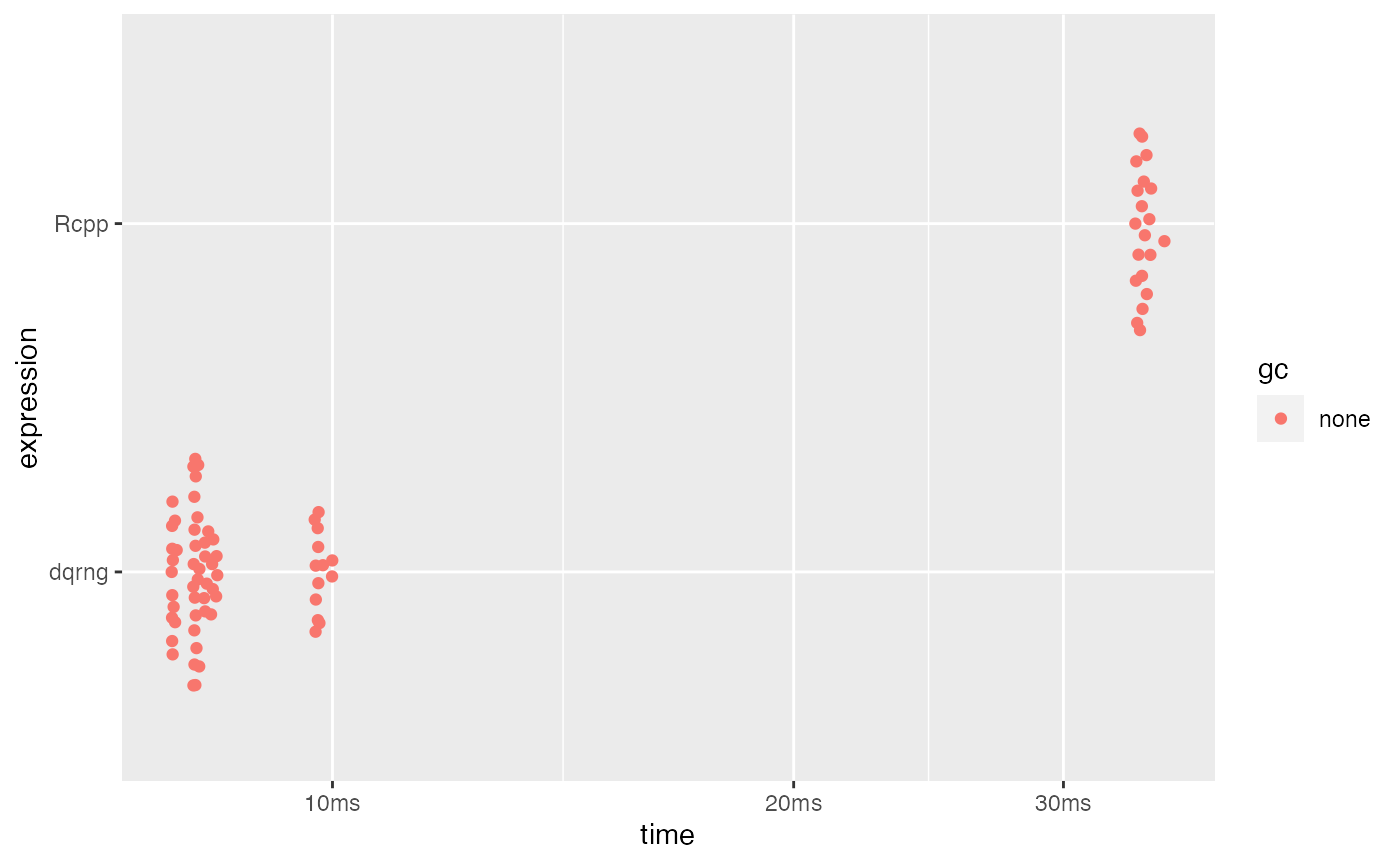
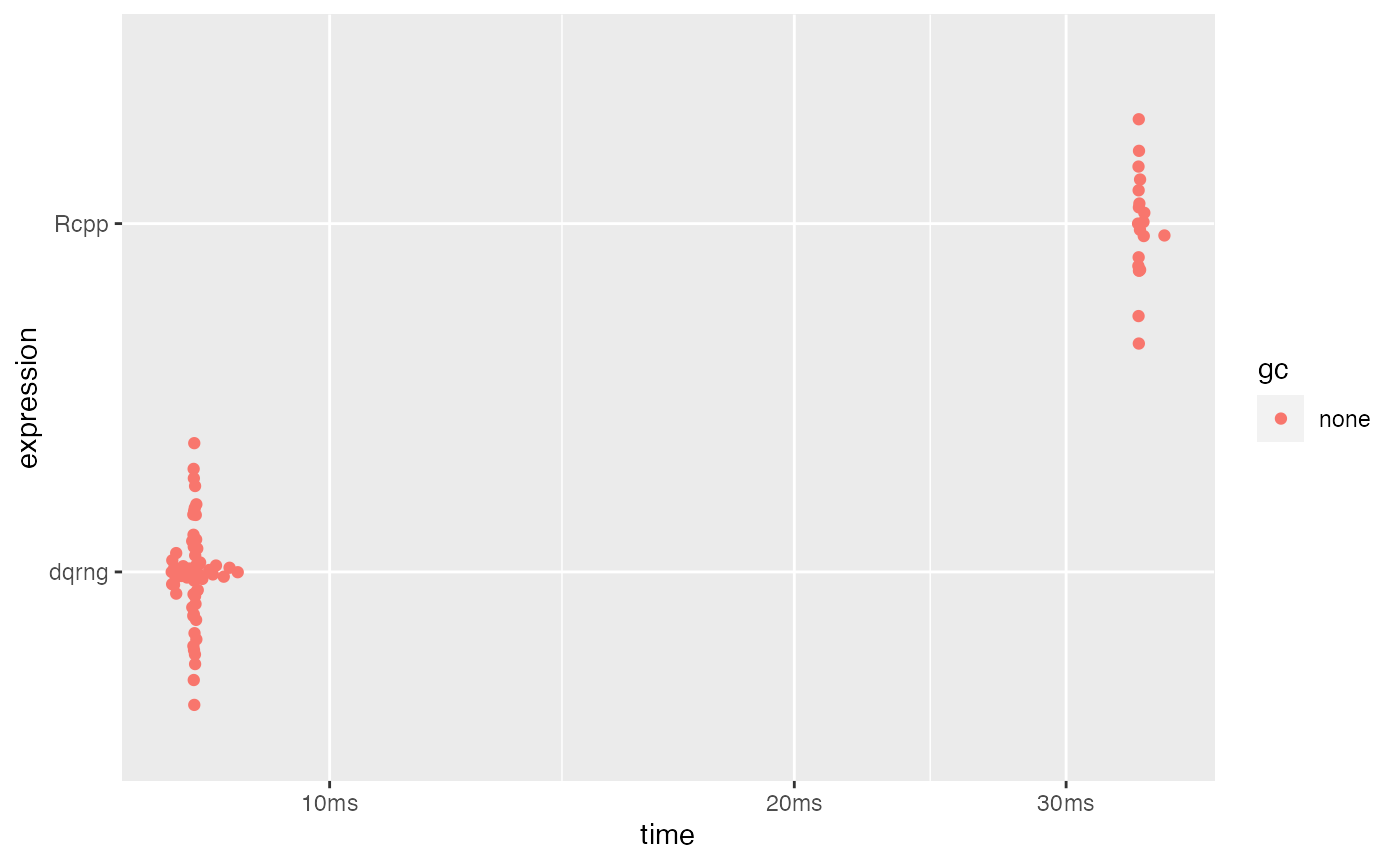
Built site for RcppRNG: 0.2.0@84d1665

diff --git a/index.html b/index.html
@@ -75,7 +75,7 @@
 <a href="#rcpprng" class="anchor"></a>RcppRNG</h1></div>
 <!-- badges: start -->
 
-<p>The goal of RcppRNG is to explore a templated implementation of Rcpp’s internal generators for sampling. The motivation is to be able to write sampling routines that are based on native sampling routines (<code>rexp</code>, <code>runif</code>, …) in a way that one can easily switch to an alternative RNG (e.g. <code>dqrng</code>).</p>
+<p>The goal of RcppRNG is to explore a templated implementation of Rcpp’s internal generators for sampling. The motivation is to be able to write sampling routines that are based on native sampling routines (<code>rexp</code>, <code>runif</code>, …) in a way that one can easily switch to an alternative RNG (e.g. <code>dqrng</code>). To achieve this, we borrow some design patterns from <a href="https://www.boost.org/doc/libs/1_74_0/doc/html/boost_random.html"><strong>boost/random</strong></a> and enrich these with additional template arguments for distributions, which are central to respective simulation strategies.</p>
 <div id="installation" class="section level2">
 <h2 class="hasAnchor">
 <a href="#installation" class="anchor"></a>Installation</h2>
@@ -102,7 +102,7 @@
 <span id="cb2-14"><a href="#cb2-14"></a></span>
 <span id="cb2-15"><a href="#cb2-15"></a><span class="op">/</span><span class="er">/</span><span class="st"> </span>[[Rcpp<span class="op">::</span><span class="kw">export</span>(<span class="dt">rng=</span>false)]]</span>
 <span id="cb2-16"><a href="#cb2-16"></a>NumericVector <span class="kw">Rcpp_rexp_RNGScope</span>(R_xlen_t n, double <span class="dt">rate =</span> <span class="fl">1.</span>) {</span>
-<span id="cb2-17"><a href="#cb2-17"></a>  NumericVector <span class="kw">out</span>(<span class="kw">no_init</span>(n));</span>
+<span id="cb2-17"><a href="#cb2-17"></a>  NumericVector out{<span class="kw">no_init</span>(n)};</span>
 <span id="cb2-18"><a href="#cb2-18"></a>  Rcpp<span class="op">::</span>RNGScope engine{};</span>
 <span id="cb2-19"><a href="#cb2-19"></a>  exponential_distribution exp{rate};</span>
 <span id="cb2-20"><a href="#cb2-20"></a>  std<span class="op">::</span><span class="kw">generate</span>(<span class="kw">out.begin</span>(), <span class="kw">out.end</span>(),</span>
@@ -113,7 +113,7 @@
 <span id="cb2-25"><a href="#cb2-25"></a></span>
 <span id="cb2-26"><a href="#cb2-26"></a><span class="op">/</span><span class="er">/</span><span class="st"> </span>[[Rcpp<span class="op">::</span><span class="kw">export</span>(<span class="dt">rng=</span>false)]]</span>
 <span id="cb2-27"><a href="#cb2-27"></a>NumericVector <span class="kw">Rcpp_rexp_RcppRNG</span>(R_xlen_t n, double <span class="dt">rate =</span> <span class="fl">1.</span>) {</span>
-<span id="cb2-28"><a href="#cb2-28"></a>  NumericVector <span class="kw">out</span>(<span class="kw">no_init</span>(n));</span>
+<span id="cb2-28"><a href="#cb2-28"></a>  NumericVector out{<span class="kw">no_init</span>(n)};</span>
 <span id="cb2-29"><a href="#cb2-29"></a>  RcppRNG<span class="op">::</span>rng<span class="op">::</span>RcppRNG engine{};</span>
 <span id="cb2-30"><a href="#cb2-30"></a>  exponential_distribution exp{rate};</span>
 <span id="cb2-31"><a href="#cb2-31"></a>  std<span class="op">::</span><span class="kw">generate</span>(<span class="kw">out.begin</span>(), <span class="kw">out.end</span>(),</span>
@@ -122,50 +122,55 @@
 <span id="cb2-34"><a href="#cb2-34"></a>  return out;</span>
 <span id="cb2-35"><a href="#cb2-35"></a>}</span>
 <span id="cb2-36"><a href="#cb2-36"></a></span>
-<span id="cb2-37"><a href="#cb2-37"></a>use_seed &lt;-<span class="st"> </span>1623L</span>
-<span id="cb2-38"><a href="#cb2-38"></a></span>
-<span id="cb2-39"><a href="#cb2-39"></a><span class="kw">set.seed</span>(use_seed)</span>
-<span id="cb2-40"><a href="#cb2-40"></a><span class="kw">rexp</span>(<span class="dv">10</span>, <span class="fl">0.5</span>)</span>
-<span id="cb2-41"><a href="#cb2-41"></a><span class="co">#&gt;  [1] 5.4676605 4.5936452 0.4407928 0.5377660 5.1456763 1.4054108 1.6753103</span></span>
-<span id="cb2-42"><a href="#cb2-42"></a><span class="co">#&gt;  [8] 3.2669849 0.1426958 4.6437262</span></span>
-<span id="cb2-43"><a href="#cb2-43"></a></span>
-<span id="cb2-44"><a href="#cb2-44"></a><span class="kw">set.seed</span>(use_seed)</span>
-<span id="cb2-45"><a href="#cb2-45"></a><span class="kw">Rcpp_rexp_RNGScope</span>(<span class="dv">10</span>, <span class="fl">0.5</span>)</span>
-<span id="cb2-46"><a href="#cb2-46"></a><span class="co">#&gt;  [1] 5.4676605 4.5936452 0.4407928 0.5377660 5.1456763 1.4054108 1.6753103</span></span>
-<span id="cb2-47"><a href="#cb2-47"></a><span class="co">#&gt;  [8] 3.2669849 0.1426958 4.6437262</span></span>
-<span id="cb2-48"><a href="#cb2-48"></a></span>
-<span id="cb2-49"><a href="#cb2-49"></a><span class="kw">set.seed</span>(use_seed)</span>
-<span id="cb2-50"><a href="#cb2-50"></a><span class="kw">Rcpp_rexp_RcppRNG</span>(<span class="dv">10</span>, <span class="fl">0.5</span>)</span>
-<span id="cb2-51"><a href="#cb2-51"></a><span class="co">#&gt;  [1] 5.4676605 4.5936452 0.4407928 0.5377660 5.1456763 1.4054108 1.6753103</span></span>
-<span id="cb2-52"><a href="#cb2-52"></a><span class="co">#&gt;  [8] 3.2669849 0.1426958 4.6437262</span></span>
-<span id="cb2-53"><a href="#cb2-53"></a></span>
-<span id="cb2-54"><a href="#cb2-54"></a>bench<span class="op">::</span><span class="kw">mark</span>(</span>
-<span id="cb2-55"><a href="#cb2-55"></a>  <span class="kw">rexp</span>(<span class="fl">1e5</span>, <span class="fl">0.5</span>),</span>
-<span id="cb2-56"><a href="#cb2-56"></a>  <span class="kw">Rcpp_rexp_RNGScope</span>(<span class="fl">1e5</span>, <span class="fl">0.5</span>),</span>
-<span id="cb2-57"><a href="#cb2-57"></a>  <span class="kw">Rcpp_rexp_RcppRNG</span>(<span class="fl">1e5</span>, <span class="fl">0.5</span>),</span>
-<span id="cb2-58"><a href="#cb2-58"></a>  <span class="dt">check=</span><span class="ot">FALSE</span></span>
-<span id="cb2-59"><a href="#cb2-59"></a>)</span>
-<span id="cb2-60"><a href="#cb2-60"></a><span class="co">#&gt; # A tibble: 3 x 6</span></span>
-<span id="cb2-61"><a href="#cb2-61"></a><span class="co">#&gt;   expression                          min   median `itr/sec` mem_alloc `gc/sec`</span></span>
-<span id="cb2-62"><a href="#cb2-62"></a><span class="co">#&gt;   &lt;bch:expr&gt;                     &lt;bch:tm&gt; &lt;bch:tm&gt;     &lt;dbl&gt; &lt;bch:byt&gt;    &lt;dbl&gt;</span></span>
-<span id="cb2-63"><a href="#cb2-63"></a><span class="co">#&gt; 1 rexp(1e+05, 0.5)                 5.26ms   5.96ms      162.  783.79KB     2.06</span></span>
-<span id="cb2-64"><a href="#cb2-64"></a><span class="co">#&gt; 2 Rcpp_rexp_RNGScope(1e+05, 0.5)   3.84ms   4.44ms      219.    4.52MB     2.07</span></span>
-<span id="cb2-65"><a href="#cb2-65"></a><span class="co">#&gt; 3 Rcpp_rexp_RcppRNG(1e+05, 0.5)    3.83ms   4.33ms      218.  787.92KB     4.27</span></span></code></pre></div>
+<span id="cb2-37"><a href="#cb2-37"></a>n &lt;-<span class="st"> </span><span class="fl">1e1</span>L</span>
+<span id="cb2-38"><a href="#cb2-38"></a>lambda &lt;-<span class="st"> </span><span class="fl">0.5</span></span>
+<span id="cb2-39"><a href="#cb2-39"></a>use_seed &lt;-<span class="st"> </span>1623L</span>
+<span id="cb2-40"><a href="#cb2-40"></a></span>
+<span id="cb2-41"><a href="#cb2-41"></a><span class="kw">set.seed</span>(use_seed)</span>
+<span id="cb2-42"><a href="#cb2-42"></a><span class="kw">rexp</span>(n, <span class="dt">rate=</span>lambda)</span>
+<span id="cb2-43"><a href="#cb2-43"></a><span class="co">#&gt;  [1] 5.4676605 4.5936452 0.4407928 0.5377660 5.1456763 1.4054108 1.6753103</span></span>
+<span id="cb2-44"><a href="#cb2-44"></a><span class="co">#&gt;  [8] 3.2669849 0.1426958 4.6437262</span></span>
+<span id="cb2-45"><a href="#cb2-45"></a></span>
+<span id="cb2-46"><a href="#cb2-46"></a><span class="kw">set.seed</span>(use_seed)</span>
+<span id="cb2-47"><a href="#cb2-47"></a><span class="kw">Rcpp_rexp_RNGScope</span>(n, <span class="dt">rate=</span>lambda)</span>
+<span id="cb2-48"><a href="#cb2-48"></a><span class="co">#&gt;  [1] 5.4676605 4.5936452 0.4407928 0.5377660 5.1456763 1.4054108 1.6753103</span></span>
+<span id="cb2-49"><a href="#cb2-49"></a><span class="co">#&gt;  [8] 3.2669849 0.1426958 4.6437262</span></span>
+<span id="cb2-50"><a href="#cb2-50"></a></span>
+<span id="cb2-51"><a href="#cb2-51"></a><span class="kw">set.seed</span>(use_seed)</span>
+<span id="cb2-52"><a href="#cb2-52"></a><span class="kw">Rcpp_rexp_RcppRNG</span>(n, <span class="dt">rate=</span>lambda)</span>
+<span id="cb2-53"><a href="#cb2-53"></a><span class="co">#&gt;  [1] 5.4676605 4.5936452 0.4407928 0.5377660 5.1456763 1.4054108 1.6753103</span></span>
+<span id="cb2-54"><a href="#cb2-54"></a><span class="co">#&gt;  [8] 3.2669849 0.1426958 4.6437262</span></span>
+<span id="cb2-55"><a href="#cb2-55"></a></span>
+<span id="cb2-56"><a href="#cb2-56"></a></span>
+<span id="cb2-57"><a href="#cb2-57"></a>n &lt;-<span class="st"> </span><span class="fl">1e5</span>L</span>
+<span id="cb2-58"><a href="#cb2-58"></a>bench<span class="op">::</span><span class="kw">mark</span>(</span>
+<span id="cb2-59"><a href="#cb2-59"></a>  <span class="kw">rexp</span>(n, <span class="dt">rate=</span>lambda),</span>
+<span id="cb2-60"><a href="#cb2-60"></a>  <span class="kw">Rcpp_rexp_RNGScope</span>(n, <span class="dt">rate=</span>lambda),</span>
+<span id="cb2-61"><a href="#cb2-61"></a>  <span class="kw">Rcpp_rexp_RcppRNG</span>(n, <span class="dt">rate=</span>lambda),</span>
+<span id="cb2-62"><a href="#cb2-62"></a>  <span class="dt">check=</span><span class="ot">FALSE</span></span>
+<span id="cb2-63"><a href="#cb2-63"></a>)</span>
+<span id="cb2-64"><a href="#cb2-64"></a><span class="co">#&gt; # A tibble: 3 x 6</span></span>
+<span id="cb2-65"><a href="#cb2-65"></a><span class="co">#&gt;   expression                              min median `itr/sec` mem_alloc</span></span>
+<span id="cb2-66"><a href="#cb2-66"></a><span class="co">#&gt;   &lt;bch:expr&gt;                           &lt;bch:&gt; &lt;bch:&gt;     &lt;dbl&gt; &lt;bch:byt&gt;</span></span>
+<span id="cb2-67"><a href="#cb2-67"></a><span class="co">#&gt; 1 rexp(n, rate = lambda)               5.33ms    6ms      156.  783.79KB</span></span>
+<span id="cb2-68"><a href="#cb2-68"></a><span class="co">#&gt; 2 Rcpp_rexp_RNGScope(n, rate = lambda) 3.83ms 4.33ms      223.    4.52MB</span></span>
+<span id="cb2-69"><a href="#cb2-69"></a><span class="co">#&gt; 3 Rcpp_rexp_RcppRNG(n, rate = lambda)  3.83ms 4.38ms      222.  787.92KB</span></span>
+<span id="cb2-70"><a href="#cb2-70"></a><span class="co">#&gt; # … with 1 more variable: `gc/sec` &lt;dbl&gt;</span></span></code></pre></div>
 </div>
 <div id="why-is-that-useful" class="section level2">
 <h2 class="hasAnchor">
 <a href="#why-is-that-useful" class="anchor"></a>Why is that useful?</h2>
-<p>For the exponential distribution, the problem is not that easy to motivate, since whenever one wants repeated single exponential samples inside the C++ function, one could resort to</p>
-<div class="sourceCode" id="cb3"><pre class="sourceCode R"><code class="sourceCode r"><span id="cb3-1"><a href="#cb3-1"></a>scale <span class="op">*</span><span class="st"> </span>R<span class="op">::</span><span class="kw">exp_rand</span>();</span></code></pre></div>
+<p>For the exponential distribution, obvious to see why this approach constitutes an improvement, since whenever one wants repeated single exponential samples inside the C++ function, one could resort to</p>
+<div class="sourceCode" id="cb3"><pre class="sourceCode R"><code class="sourceCode r"><span id="cb3-1"><a href="#cb3-1"></a>scale <span class="op">*</span><span class="st"> </span><span class="er">::</span><span class="kw">exp_rand</span>(); <span class="op">/</span><span class="er">/</span><span class="st"> </span><span class="cf">in</span> R_ext<span class="op">/</span>Random.h</span></code></pre></div>
 <p>However, it is much more difficult, if you need repeated single samples from a discrete distribution (e.g. to sample the transitions in a Markov process). At his point you could do somethings like</p>
 <div class="sourceCode" id="cb4"><pre class="sourceCode R"><code class="sourceCode r"><span id="cb4-1"><a href="#cb4-1"></a><span class="kw">sample</span>(n, <span class="dv">1</span>, false, probs, true)[<span class="dv">0</span>]; <span class="op">/</span><span class="er">/</span><span class="st"> </span>probs is NumericVector of size n</span></code></pre></div>
-<p>This, however, would construct a <code>NumericVector</code> object in each draw. This has a significant overhead. For the exponential distribution this will be demonstrated in the following</p>
+<p>However, this would construct a <code>NumericVector</code> object in each draw. This has a significant overhead. For the exponential distribution this will be demonstrated in the following</p>
 <div class="sourceCode" id="cb5"><pre class="sourceCode R"><code class="sourceCode r"><span id="cb5-1"><a href="#cb5-1"></a><span class="co">#include &lt;Rcpp.h&gt;</span></span>
 <span id="cb5-2"><a href="#cb5-2"></a>using namespace Rcpp;</span>
 <span id="cb5-3"><a href="#cb5-3"></a></span>
 <span id="cb5-4"><a href="#cb5-4"></a><span class="op">/</span><span class="er">/</span><span class="st"> </span>[[Rcpp<span class="op">::</span>export]]</span>
 <span id="cb5-5"><a href="#cb5-5"></a>NumericVector <span class="kw">Rcpp_rexp_slow</span>(R_xlen_t n, double <span class="dt">rate =</span> <span class="fl">1.</span>) {</span>
-<span id="cb5-6"><a href="#cb5-6"></a>  NumericVector <span class="kw">out</span>(<span class="kw">no_init</span>(n));</span>
+<span id="cb5-6"><a href="#cb5-6"></a>  NumericVector out{<span class="kw">no_init</span>(n)};</span>
 <span id="cb5-7"><a href="#cb5-7"></a>  <span class="cf">for</span> (R_xlen_t <span class="dt">k=</span><span class="dv">0</span>; k<span class="op">&lt;</span>n; k<span class="op">++</span>)</span>
 <span id="cb5-8"><a href="#cb5-8"></a>    out[k] =<span class="st"> </span><span class="kw">rexp</span>(<span class="dv">1</span>, rate)[<span class="dv">0</span>];</span>
 <span id="cb5-9"><a href="#cb5-9"></a></span>
@@ -182,11 +187,12 @@
 <span id="cb5-20"><a href="#cb5-20"></a><span class="co">#&gt; # A tibble: 4 x 6</span></span>
 <span id="cb5-21"><a href="#cb5-21"></a><span class="co">#&gt;   expression                          min   median `itr/sec` mem_alloc `gc/sec`</span></span>
 <span id="cb5-22"><a href="#cb5-22"></a><span class="co">#&gt;   &lt;bch:expr&gt;                     &lt;bch:tm&gt; &lt;bch:tm&gt;     &lt;dbl&gt; &lt;bch:byt&gt;    &lt;dbl&gt;</span></span>
-<span id="cb5-23"><a href="#cb5-23"></a><span class="co">#&gt; 1 rexp(1e+05, 0.5)                  5.2ms   5.98ms      161.     784KB     2.07</span></span>
-<span id="cb5-24"><a href="#cb5-24"></a><span class="co">#&gt; 2 Rcpp_rexp_RNGScope(1e+05, 0.5)   3.96ms   4.87ms      207.     784KB     2.05</span></span>
-<span id="cb5-25"><a href="#cb5-25"></a><span class="co">#&gt; 3 Rcpp_rexp_RcppRNG(1e+05, 0.5)    3.83ms   4.82ms      201.     784KB     4.27</span></span>
-<span id="cb5-26"><a href="#cb5-26"></a><span class="co">#&gt; 4 Rcpp_rexp_slow(1e+05, 0.5)       7.64ms   9.19ms      102.     784KB    44.3</span></span></code></pre></div>
-<p>However, we can also use another random number generator (e.g. the one from <code>dqrng</code>):</p>
+<span id="cb5-23"><a href="#cb5-23"></a><span class="co">#&gt; 1 rexp(1e+05, 0.5)                  5.2ms   5.71ms      172.     784KB     2.05</span></span>
+<span id="cb5-24"><a href="#cb5-24"></a><span class="co">#&gt; 2 Rcpp_rexp_RNGScope(1e+05, 0.5)   3.83ms   4.48ms      215.     784KB     4.17</span></span>
+<span id="cb5-25"><a href="#cb5-25"></a><span class="co">#&gt; 3 Rcpp_rexp_RcppRNG(1e+05, 0.5)    3.83ms    4.8ms      207.     784KB     2.07</span></span>
+<span id="cb5-26"><a href="#cb5-26"></a><span class="co">#&gt; 4 Rcpp_rexp_slow(1e+05, 0.5)       7.55ms   8.35ms      113.     784KB    49.3</span></span></code></pre></div>
+<p>Another problem is, that sampling algorithms might perform internal optimizations (in the case of <code>sample</code>, probability vectors are sorted), which would have to be repreated every time the function is called with the same parameters.</p>
+<p>Finally, we can also want touse another random number generator (e.g. the one from <code>dqrng</code>). This is easily possible with our design pattern without having to duplicate the algorithm.</p>
 <div class="sourceCode" id="cb6"><pre class="sourceCode R"><code class="sourceCode r"><span id="cb6-1"><a href="#cb6-1"></a><span class="co">#include &lt;Rcpp.h&gt;</span></span>
 <span id="cb6-2"><a href="#cb6-2"></a></span>
 <span id="cb6-3"><a href="#cb6-3"></a><span class="op">/</span><span class="er">/</span><span class="st"> </span>[[Rcpp<span class="op">::</span><span class="kw">plugins</span>(<span class="st">"cpp14"</span>)]]</span>
@@ -201,7 +207,7 @@
 <span id="cb6-12"><a href="#cb6-12"></a>using exponential_distribution =</span>
 <span id="cb6-13"><a href="#cb6-13"></a><span class="st">    </span>RcppRNG<span class="op">::</span>exponential_distribution<span class="op">&lt;</span>double, unit_exponential_distribution<span class="op">&gt;</span>;</span>
 <span id="cb6-14"><a href="#cb6-14"></a></span>
-<span id="cb6-15"><a href="#cb6-15"></a>RcppRNG<span class="op">::</span>rng<span class="op">::</span>DQRNG shared_dqrng =<span class="st"> </span>RcppRNG<span class="op">::</span>rng<span class="op">::</span><span class="kw">DQRNG</span>();</span>
+<span id="cb6-15"><a href="#cb6-15"></a>RcppRNG<span class="op">::</span>rng<span class="op">::</span>DQRNG shared_dqrng =<span class="st"> </span>RcppRNG<span class="op">::</span>rng<span class="op">::</span>DQRNG{};</span>
 <span id="cb6-16"><a href="#cb6-16"></a></span>
 <span id="cb6-17"><a href="#cb6-17"></a><span class="op">/</span><span class="er">/</span><span class="st"> </span>[[Rcpp<span class="op">::</span><span class="kw">export</span>(<span class="dt">rng=</span>false)]]</span>
 <span id="cb6-18"><a href="#cb6-18"></a>void <span class="kw">dqset_seed2</span>(Rcpp<span class="op">::</span>IntegerVector seed, Rcpp<span class="op">::</span>Nullable<span class="op">&lt;</span>Rcpp<span class="op">::</span>IntegerVector<span class="op">&gt;</span><span class="st"> </span><span class="dt">stream =</span> R_NilValue) {</span>
@@ -216,7 +222,7 @@
 <span id="cb6-27"><a href="#cb6-27"></a></span>
 <span id="cb6-28"><a href="#cb6-28"></a><span class="op">/</span><span class="er">/</span><span class="st"> </span>[[Rcpp<span class="op">::</span><span class="kw">export</span>(<span class="dt">rng=</span>false)]]</span>
 <span id="cb6-29"><a href="#cb6-29"></a>NumericVector <span class="kw">Rcpp_rexp_DQRNG</span>(R_xlen_t n, double <span class="dt">rate =</span> <span class="fl">1.</span>) {</span>
-<span id="cb6-30"><a href="#cb6-30"></a>  NumericVector <span class="kw">out</span>(<span class="kw">no_init</span>(n));</span>
+<span id="cb6-30"><a href="#cb6-30"></a>  NumericVector out{<span class="kw">no_init</span>(n)};</span>
 <span id="cb6-31"><a href="#cb6-31"></a>  RcppRNG<span class="op">::</span>rng<span class="op">::</span>DQRNG engine{};</span>
 <span id="cb6-32"><a href="#cb6-32"></a>  exponential_distribution exp{rate};</span>
 <span id="cb6-33"><a href="#cb6-33"></a>  std<span class="op">::</span><span class="kw">generate</span>(<span class="kw">out.begin</span>(), <span class="kw">out.end</span>(),</span>
@@ -247,11 +253,11 @@
 <span id="cb6-58"><a href="#cb6-58"></a><span class="co">#&gt; # A tibble: 5 x 6</span></span>
 <span id="cb6-59"><a href="#cb6-59"></a><span class="co">#&gt;   expression                          min   median `itr/sec` mem_alloc `gc/sec`</span></span>
 <span id="cb6-60"><a href="#cb6-60"></a><span class="co">#&gt;   &lt;bch:expr&gt;                     &lt;bch:tm&gt; &lt;bch:tm&gt;     &lt;dbl&gt; &lt;bch:byt&gt;    &lt;dbl&gt;</span></span>
-<span id="cb6-61"><a href="#cb6-61"></a><span class="co">#&gt; 1 rexp(1e+05, 0.5)                 5.34ms   6.75ms      146.     784KB     2.08</span></span>
-<span id="cb6-62"><a href="#cb6-62"></a><span class="co">#&gt; 2 Rcpp_rexp_RNGScope(1e+05, 0.5)   3.82ms   4.64ms      209.     784KB     4.27</span></span>
-<span id="cb6-63"><a href="#cb6-63"></a><span class="co">#&gt; 3 Rcpp_rexp_RcppRNG(1e+05, 0.5)    3.92ms   5.03ms      200.     784KB     2.06</span></span>
-<span id="cb6-64"><a href="#cb6-64"></a><span class="co">#&gt; 4 Rcpp_rexp_DQRNG(1e+05, 0.5)    909.64µs   1.41ms      691.     781KB    13.9 </span></span>
-<span id="cb6-65"><a href="#cb6-65"></a><span class="co">#&gt; 5 Rcpp_rexp_slow(1e+05, 0.5)       7.68ms   9.42ms      103.     784KB    41.7</span></span></code></pre></div>
+<span id="cb6-61"><a href="#cb6-61"></a><span class="co">#&gt; 1 rexp(1e+05, 0.5)                 5.17ms   5.67ms      172.     784KB     2.05</span></span>
+<span id="cb6-62"><a href="#cb6-62"></a><span class="co">#&gt; 2 Rcpp_rexp_RNGScope(1e+05, 0.5)   3.81ms   4.32ms      215.     784KB     4.22</span></span>
+<span id="cb6-63"><a href="#cb6-63"></a><span class="co">#&gt; 3 Rcpp_rexp_RcppRNG(1e+05, 0.5)    3.81ms   4.27ms      225.     784KB     4.21</span></span>
+<span id="cb6-64"><a href="#cb6-64"></a><span class="co">#&gt; 4 Rcpp_rexp_DQRNG(1e+05, 0.5)    887.39µs   1.23ms      792.     781KB    13.9 </span></span>
+<span id="cb6-65"><a href="#cb6-65"></a><span class="co">#&gt; 5 Rcpp_rexp_slow(1e+05, 0.5)       7.53ms   8.35ms      118.     784KB    49.4</span></span></code></pre></div>
 <p>The main benefit of this design is that it allows us to implement new sampling algorithms, which are based on basic generators (e.g. exp, unif, …) such that they can be used with the base R RNG or other RNG’s (e.g. dqrng’s). An example is described in a <a href="articles/create-new-generators.html">create new generators</a>.</p>
 </div>
 <div id="license" class="section level2">

diff --git a/articles/create-new-generators.html b/articles/create-new-generators.html
@@ -136,76 +136,84 @@
 <span id="cb2-27"><a href="#cb2-27"></a></span>
 <span id="cb2-28"><a href="#cb2-28"></a>  <span class="kw">class</span> <span class="dt">param_type</span> {</span>
 <span id="cb2-29"><a href="#cb2-29"></a>   <span class="kw">public</span>:</span>
-<span id="cb2-30"><a href="#cb2-30"></a>    <span class="kw">explicit</span> <span class="dt">param_type</span>(<span class="at">const</span> _IntType shape = _IntType{<span class="dv">1</span>},</span>
-<span id="cb2-31"><a href="#cb2-31"></a>                        <span class="at">const</span> _RealType lambda = _RealType{<span class="fl">1.</span>})</span>
-<span id="cb2-32"><a href="#cb2-32"></a>        : <span class="va">shape_</span>{shape}, <span class="va">lambda_</span>{lambda} {</span>
-<span id="cb2-33"><a href="#cb2-33"></a>      erlang::check_params(<span class="va">shape_</span>, <span class="va">lambda_</span>);</span>
-<span id="cb2-34"><a href="#cb2-34"></a>    }</span>
-<span id="cb2-35"><a href="#cb2-35"></a></span>
-<span id="cb2-36"><a href="#cb2-36"></a>    <span class="co">// compiler generated ctor and assignment op is sufficient</span></span>
-<span id="cb2-37"><a href="#cb2-37"></a></span>
-<span id="cb2-38"><a href="#cb2-38"></a>    _IntType shape() <span class="at">const</span> { <span class="cf">return</span> <span class="va">shape_</span>; }</span>
-<span id="cb2-39"><a href="#cb2-39"></a></span>
-<span id="cb2-40"><a href="#cb2-40"></a>    _RealType lambda() <span class="at">const</span> { <span class="cf">return</span> <span class="va">lambda_</span>; }</span>
-<span id="cb2-41"><a href="#cb2-41"></a></span>
-<span id="cb2-42"><a href="#cb2-42"></a>   <span class="kw">private</span>:</span>
-<span id="cb2-43"><a href="#cb2-43"></a>    _IntType <span class="va">shape_</span>;</span>
-<span id="cb2-44"><a href="#cb2-44"></a>    _RealType <span class="va">lambda_</span>;</span>
-<span id="cb2-45"><a href="#cb2-45"></a>  };</span>
-<span id="cb2-46"><a href="#cb2-46"></a></span>
-<span id="cb2-47"><a href="#cb2-47"></a>  <span class="kw">explicit</span> erlang_distribution(<span class="at">const</span> _IntType shape = _IntType{<span class="dv">1</span>},</span>
-<span id="cb2-48"><a href="#cb2-48"></a>                               <span class="at">const</span> _RealType lambda = _RealType{<span class="fl">1.</span>})</span>
-<span id="cb2-49"><a href="#cb2-49"></a>      : <span class="va">shape_</span>{shape}, <span class="va">exponential_distribution_</span>{lambda} {</span>
-<span id="cb2-50"><a href="#cb2-50"></a>    erlang::check_params(<span class="va">shape_</span>, <span class="va">exponential_distribution_</span>.lambda());</span>
-<span id="cb2-51"><a href="#cb2-51"></a>  }</span>
-<span id="cb2-52"><a href="#cb2-52"></a></span>
-<span id="cb2-53"><a href="#cb2-53"></a>  <span class="kw">explicit</span> erlang_distribution(<span class="at">const</span> <span class="dt">param_type</span>&amp; params)</span>
-<span id="cb2-54"><a href="#cb2-54"></a>      : <span class="va">shape_</span>(params.shape()), <span class="va">exponential_distribution_</span>(params.lambda()) {}</span>
-<span id="cb2-55"><a href="#cb2-55"></a></span>
-<span id="cb2-56"><a href="#cb2-56"></a>  <span class="co">// compiler generated ctor and assignment op is sufficient</span></span>
-<span id="cb2-57"><a href="#cb2-57"></a></span>
-<span id="cb2-58"><a href="#cb2-58"></a>  <span class="dt">param_type</span> params() <span class="at">const</span> {</span>
-<span id="cb2-59"><a href="#cb2-59"></a>    <span class="cf">return</span> <span class="dt">param_type</span>{<span class="va">shape_</span>, <span class="va">exponential_distribution_</span>.lambda()};</span>
-<span id="cb2-60"><a href="#cb2-60"></a>  }</span>
-<span id="cb2-61"><a href="#cb2-61"></a></span>
-<span id="cb2-62"><a href="#cb2-62"></a>  <span class="dt">void</span> params(<span class="at">const</span> <span class="dt">param_type</span>&amp; params) {</span>
-<span id="cb2-63"><a href="#cb2-63"></a>    <span class="va">shape_</span> = params.shape();</span>
-<span id="cb2-64"><a href="#cb2-64"></a>    <span class="va">exponential_distribution_</span>.params(params.lambda());</span>
-<span id="cb2-65"><a href="#cb2-65"></a>  }</span>
-<span id="cb2-66"><a href="#cb2-66"></a></span>
-<span id="cb2-67"><a href="#cb2-67"></a>  _IntType shape() <span class="at">const</span> { <span class="cf">return</span> <span class="va">shape_</span>; }</span>
-<span id="cb2-68"><a href="#cb2-68"></a></span>
-<span id="cb2-69"><a href="#cb2-69"></a>  _RealType lambda() <span class="at">const</span> { <span class="cf">return</span> <span class="va">exponential_distribution_</span>.lambda(); }</span>
-<span id="cb2-70"><a href="#cb2-70"></a></span>
-<span id="cb2-71"><a href="#cb2-71"></a>  <span class="kw">template</span> &lt;<span class="kw">typename</span> _EngineType&gt;</span>
-<span id="cb2-72"><a href="#cb2-72"></a>  <span class="dt">result_type</span> <span class="kw">operator</span>()(_EngineType&amp;&amp; engine) {</span>
-<span id="cb2-73"><a href="#cb2-73"></a>    <span class="dt">result_type</span> out = _RealType{<span class="fl">0.</span>};</span>
-<span id="cb2-74"><a href="#cb2-74"></a>    <span class="cf">for</span> (_IntType j = _IntType(<span class="dv">1</span>); j &lt;= <span class="va">shape_</span>; ++j)</span>
-<span id="cb2-75"><a href="#cb2-75"></a>      out += <span class="va">exponential_distribution_</span>(<span class="bu">std::</span>forward&lt;_EngineType&gt;(engine));</span>
+<span id="cb2-30"><a href="#cb2-30"></a></span>
+<span id="cb2-31"><a href="#cb2-31"></a>    <span class="kw">explicit</span> <span class="dt">param_type</span>(<span class="at">const</span> _IntType shape = _IntType{<span class="dv">1</span>},</span>
+<span id="cb2-32"><a href="#cb2-32"></a>                        <span class="at">const</span> _RealType lambda = _RealType{<span class="fl">1.</span>})</span>
+<span id="cb2-33"><a href="#cb2-33"></a>        : <span class="va">shape_</span>{shape}, <span class="va">lambda_</span>{lambda} {</span>
+<span id="cb2-34"><a href="#cb2-34"></a>      erlang::check_params(<span class="va">shape_</span>, <span class="va">lambda_</span>);</span>
+<span id="cb2-35"><a href="#cb2-35"></a>    }</span>
+<span id="cb2-36"><a href="#cb2-36"></a></span>
+<span id="cb2-37"><a href="#cb2-37"></a>    <span class="co">// Used for construction from a different specialization</span></span>
+<span id="cb2-38"><a href="#cb2-38"></a>    <span class="kw">template</span> &lt;<span class="kw">typename</span> _ErlangParamType,</span>
+<span id="cb2-39"><a href="#cb2-39"></a>              <span class="kw">class</span> = <span class="kw">typename</span> <span class="bu">std::</span>enable_if&lt;</span>
+<span id="cb2-40"><a href="#cb2-40"></a>                  !<span class="bu">std::</span>is_convertible&lt;_ErlangParamType, <span class="dt">param_type</span>&gt;::value&gt;&gt;</span>
+<span id="cb2-41"><a href="#cb2-41"></a>    <span class="kw">explicit</span> <span class="dt">param_type</span>(<span class="at">const</span> _ErlangParamType&amp; params)</span>
+<span id="cb2-42"><a href="#cb2-42"></a>        : <span class="va">shape_</span>{params.shape()}, <span class="va">lambda_</span>{params.lambda()} {}</span>
+<span id="cb2-43"><a href="#cb2-43"></a></span>
+<span id="cb2-44"><a href="#cb2-44"></a>    <span class="co">// compiler generated ctor and assignment op is sufficient</span></span>
+<span id="cb2-45"><a href="#cb2-45"></a></span>
+<span id="cb2-46"><a href="#cb2-46"></a>    _IntType shape() <span class="at">const</span> { <span class="cf">return</span> <span class="va">shape_</span>; }</span>
+<span id="cb2-47"><a href="#cb2-47"></a></span>
+<span id="cb2-48"><a href="#cb2-48"></a>    _RealType lambda() <span class="at">const</span> { <span class="cf">return</span> <span class="va">lambda_</span>; }</span>
+<span id="cb2-49"><a href="#cb2-49"></a></span>
+<span id="cb2-50"><a href="#cb2-50"></a>   <span class="kw">private</span>:</span>
+<span id="cb2-51"><a href="#cb2-51"></a>    _IntType <span class="va">shape_</span>;</span>
+<span id="cb2-52"><a href="#cb2-52"></a>    _RealType <span class="va">lambda_</span>;</span>
+<span id="cb2-53"><a href="#cb2-53"></a>  };</span>
+<span id="cb2-54"><a href="#cb2-54"></a></span>
+<span id="cb2-55"><a href="#cb2-55"></a>  <span class="kw">explicit</span> erlang_distribution(<span class="at">const</span> _IntType shape = _IntType{<span class="dv">1</span>},</span>
+<span id="cb2-56"><a href="#cb2-56"></a>                               <span class="at">const</span> _RealType lambda = _RealType{<span class="fl">1.</span>})</span>
+<span id="cb2-57"><a href="#cb2-57"></a>      : <span class="va">shape_</span>{shape}, <span class="va">exponential_distribution_</span>{lambda} {</span>
+<span id="cb2-58"><a href="#cb2-58"></a>    erlang::check_params(<span class="va">shape_</span>, <span class="va">exponential_distribution_</span>.lambda());</span>
+<span id="cb2-59"><a href="#cb2-59"></a>  }</span>
+<span id="cb2-60"><a href="#cb2-60"></a></span>
+<span id="cb2-61"><a href="#cb2-61"></a>  <span class="kw">explicit</span> erlang_distribution(<span class="at">const</span> <span class="dt">param_type</span>&amp; params)</span>
+<span id="cb2-62"><a href="#cb2-62"></a>      : <span class="va">shape_</span>{params.shape()}, <span class="va">exponential_distribution_</span>{params.lambda()} {}</span>
+<span id="cb2-63"><a href="#cb2-63"></a></span>
+<span id="cb2-64"><a href="#cb2-64"></a>  <span class="co">// compiler generated ctor and assignment op is sufficient</span></span>
+<span id="cb2-65"><a href="#cb2-65"></a></span>
+<span id="cb2-66"><a href="#cb2-66"></a>  <span class="dt">param_type</span> params() <span class="at">const</span> {</span>
+<span id="cb2-67"><a href="#cb2-67"></a>    <span class="cf">return</span> <span class="dt">param_type</span>{<span class="va">shape_</span>, <span class="va">exponential_distribution_</span>.lambda()};</span>
+<span id="cb2-68"><a href="#cb2-68"></a>  }</span>
+<span id="cb2-69"><a href="#cb2-69"></a></span>
+<span id="cb2-70"><a href="#cb2-70"></a>  <span class="dt">void</span> params(<span class="at">const</span> <span class="dt">param_type</span>&amp; params) {</span>
+<span id="cb2-71"><a href="#cb2-71"></a>    <span class="va">shape_</span> = params.shape();</span>
+<span id="cb2-72"><a href="#cb2-72"></a>    <span class="va">exponential_distribution_</span>.params(params.lambda());</span>
+<span id="cb2-73"><a href="#cb2-73"></a>  }</span>
+<span id="cb2-74"><a href="#cb2-74"></a></span>
+<span id="cb2-75"><a href="#cb2-75"></a>  _IntType shape() <span class="at">const</span> { <span class="cf">return</span> <span class="va">shape_</span>; }</span>
 <span id="cb2-76"><a href="#cb2-76"></a></span>
-<span id="cb2-77"><a href="#cb2-77"></a>    <span class="cf">return</span> out;</span>
-<span id="cb2-78"><a href="#cb2-78"></a>  }</span>
-<span id="cb2-79"><a href="#cb2-79"></a></span>
-<span id="cb2-80"><a href="#cb2-80"></a>  <span class="kw">template</span> &lt;<span class="kw">typename</span> _EngineType&gt;</span>
-<span id="cb2-81"><a href="#cb2-81"></a>  <span class="dt">result_type</span> <span class="kw">operator</span>()(_EngineType&amp;&amp; engine, <span class="at">const</span> <span class="dt">param_type</span>&amp; params) {</span>
-<span id="cb2-82"><a href="#cb2-82"></a>    <span class="cf">return</span> <span class="kw">typename</span> <span class="dt">param_type</span>::<span class="dt">distribution_type</span>{params}(</span>
-<span id="cb2-83"><a href="#cb2-83"></a>        <span class="bu">std::</span>forward&lt;_EngineType&gt;(engine));</span>
-<span id="cb2-84"><a href="#cb2-84"></a>  }</span>
-<span id="cb2-85"><a href="#cb2-85"></a></span>
-<span id="cb2-86"><a href="#cb2-86"></a> <span class="kw">private</span>:</span>
-<span id="cb2-87"><a href="#cb2-87"></a>  _IntType <span class="va">shape_</span>;</span>
-<span id="cb2-88"><a href="#cb2-88"></a>  _ExponentialDistributionType <span class="va">exponential_distribution_</span>;</span>
-<span id="cb2-89"><a href="#cb2-89"></a>};  <span class="co">// erlang_distribution</span></span>
-<span id="cb2-90"><a href="#cb2-90"></a></span>
-<span id="cb2-91"><a href="#cb2-91"></a>}  <span class="co">// namespace distribution</span></span>
-<span id="cb2-92"><a href="#cb2-92"></a></span>
-<span id="cb2-93"><a href="#cb2-93"></a><span class="kw">template</span> &lt;<span class="kw">typename</span> _IntType, <span class="kw">typename</span> _RealType,</span>
-<span id="cb2-94"><a href="#cb2-94"></a>          <span class="kw">typename</span> _ExponentialDistributionType&gt;</span>
-<span id="cb2-95"><a href="#cb2-95"></a><span class="kw">using</span> erlang_distribution =</span>
-<span id="cb2-96"><a href="#cb2-96"></a>    distribution::erlang_distribution&lt;_IntType, _RealType,</span>
-<span id="cb2-97"><a href="#cb2-97"></a>                                      _ExponentialDistributionType&gt;;</span>
+<span id="cb2-77"><a href="#cb2-77"></a>  _RealType lambda() <span class="at">const</span> { <span class="cf">return</span> <span class="va">exponential_distribution_</span>.lambda(); }</span>
+<span id="cb2-78"><a href="#cb2-78"></a></span>
+<span id="cb2-79"><a href="#cb2-79"></a>  <span class="kw">template</span> &lt;<span class="kw">typename</span> _EngineType&gt;</span>
+<span id="cb2-80"><a href="#cb2-80"></a>  <span class="dt">result_type</span> <span class="kw">operator</span>()(_EngineType&amp;&amp; engine) {</span>
+<span id="cb2-81"><a href="#cb2-81"></a>    <span class="dt">result_type</span> out = _RealType{<span class="fl">0.</span>};</span>
+<span id="cb2-82"><a href="#cb2-82"></a>    <span class="cf">for</span> (_IntType j = _IntType(<span class="dv">1</span>); j &lt;= <span class="va">shape_</span>; ++j)</span>
+<span id="cb2-83"><a href="#cb2-83"></a>      out += <span class="va">exponential_distribution_</span>(<span class="bu">std::</span>forward&lt;_EngineType&gt;(engine));</span>
+<span id="cb2-84"><a href="#cb2-84"></a></span>
+<span id="cb2-85"><a href="#cb2-85"></a>    <span class="cf">return</span> out;</span>
+<span id="cb2-86"><a href="#cb2-86"></a>  }</span>
+<span id="cb2-87"><a href="#cb2-87"></a></span>
+<span id="cb2-88"><a href="#cb2-88"></a>  <span class="kw">template</span> &lt;<span class="kw">typename</span> _EngineType&gt;</span>
+<span id="cb2-89"><a href="#cb2-89"></a>  <span class="dt">result_type</span> <span class="kw">operator</span>()(_EngineType&amp;&amp; engine, <span class="at">const</span> <span class="dt">param_type</span>&amp; params) {</span>
+<span id="cb2-90"><a href="#cb2-90"></a>    <span class="cf">return</span> <span class="kw">typename</span> <span class="dt">param_type</span>::<span class="dt">distribution_type</span>{params}(</span>
+<span id="cb2-91"><a href="#cb2-91"></a>        <span class="bu">std::</span>forward&lt;_EngineType&gt;(engine));</span>
+<span id="cb2-92"><a href="#cb2-92"></a>  }</span>
+<span id="cb2-93"><a href="#cb2-93"></a></span>
+<span id="cb2-94"><a href="#cb2-94"></a> <span class="kw">private</span>:</span>
+<span id="cb2-95"><a href="#cb2-95"></a>  _IntType <span class="va">shape_</span>;</span>
+<span id="cb2-96"><a href="#cb2-96"></a>  _ExponentialDistributionType <span class="va">exponential_distribution_</span>;</span>
+<span id="cb2-97"><a href="#cb2-97"></a>};  <span class="co">// erlang_distribution</span></span>
 <span id="cb2-98"><a href="#cb2-98"></a></span>
-<span id="cb2-99"><a href="#cb2-99"></a>}  <span class="co">// namespace RcppRNG</span></span></code></pre></div>
+<span id="cb2-99"><a href="#cb2-99"></a>}  <span class="co">// namespace distribution</span></span>
+<span id="cb2-100"><a href="#cb2-100"></a></span>
+<span id="cb2-101"><a href="#cb2-101"></a><span class="kw">template</span> &lt;<span class="kw">typename</span> _IntType, <span class="kw">typename</span> _RealType,</span>
+<span id="cb2-102"><a href="#cb2-102"></a>          <span class="kw">typename</span> _ExponentialDistributionType&gt;</span>
+<span id="cb2-103"><a href="#cb2-103"></a><span class="kw">using</span> erlang_distribution =</span>
+<span id="cb2-104"><a href="#cb2-104"></a>    distribution::erlang_distribution&lt;_IntType, _RealType,</span>
+<span id="cb2-105"><a href="#cb2-105"></a>                                      _ExponentialDistributionType&gt;;</span>
+<span id="cb2-106"><a href="#cb2-106"></a></span>
+<span id="cb2-107"><a href="#cb2-107"></a>}  <span class="co">// namespace RcppRNG</span></span></code></pre></div>
 </div>
 <div id="rcpp-wrapper" class="section level3">
 <h3 class="hasAnchor">
